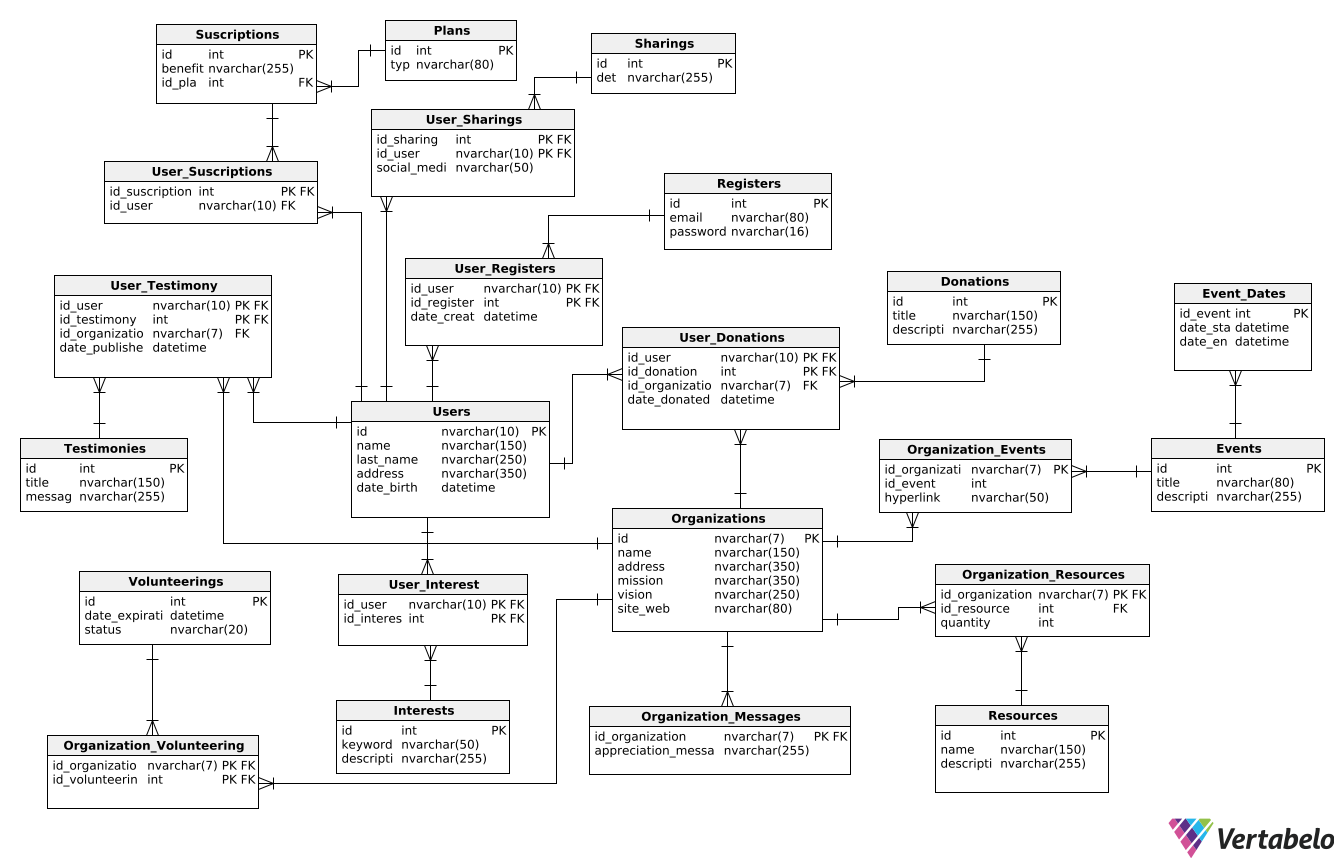
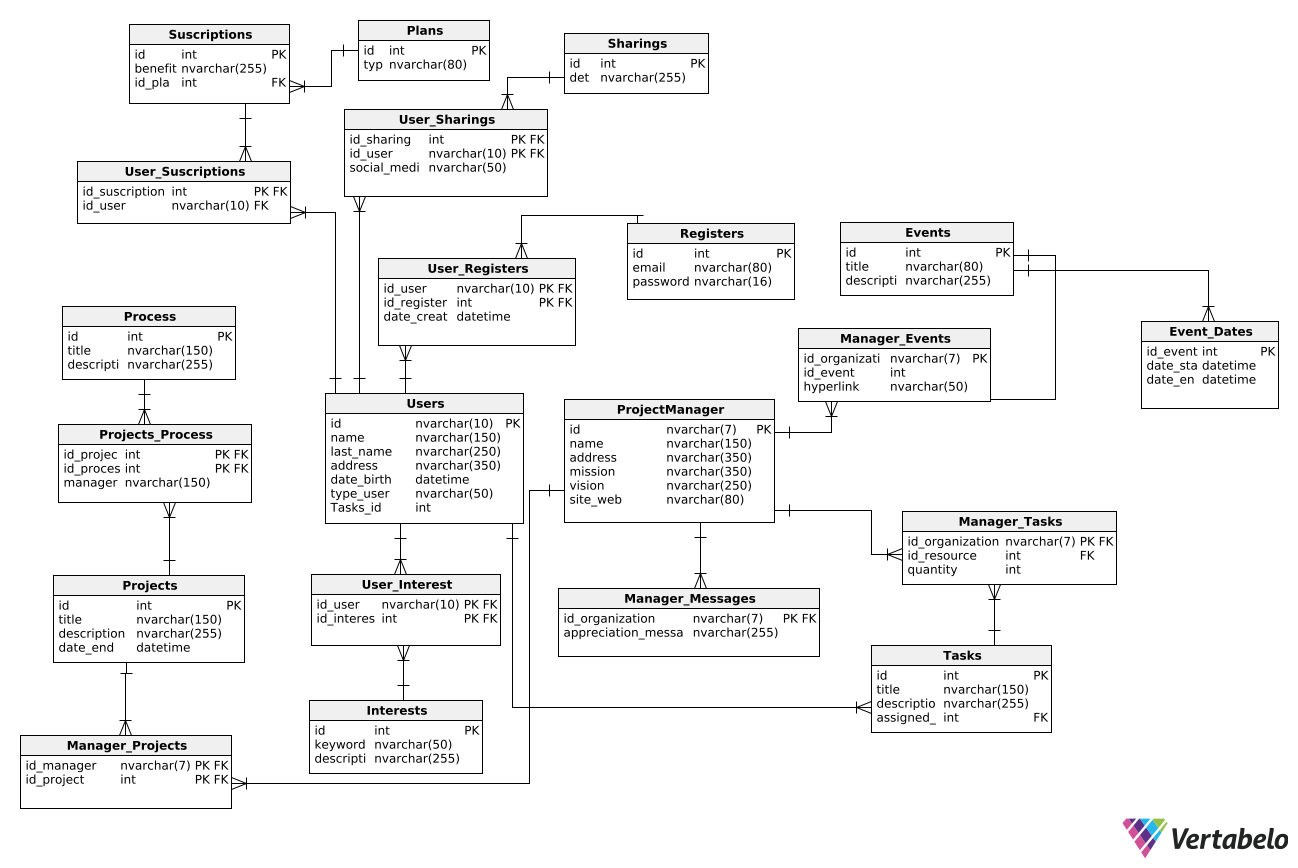
update: new class diagram

diff --git a/TB1/si730-WX54-Startup-report-TB1.md b/TB1/si730-WX54-Startup-report-TB1.md
@@ -502,8 +502,7 @@ un flow diagram de como el usuario utilizara la pagina **[PARA CADA USER GOAL]**
 
 ## 4.7. Software Object-Oriented Design.
 ### 4.7.1. Class Diagrams.
-Esta yaselasaben (diagrama de clases)
-Clases(name), objetos(nombre-objeto [como objeto]), metodos("Accion") y atributos(Correo, edad,nombre como valor, ID)
+![Class Diagram](/assets/diagrams/class_diagram.png)
 ### 4.7.2. Class Dictionary.
 Inherit (ave(superclase) -> (subclase)canario )
 Polymorphism (Ej. funcion de persona hablar() -> Peruano hablar() , Gringo hablar() todos tienen una funcion que contiene persona y van cambiando sus formas)
@@ -511,7 +510,7 @@ Abstraction (Ej. Solo muestra el usuario, pero esta su edad, correo y veces usad
 Encapsulation (cuando tienes tus variables y metodos en la misma clase las estas encapsulando, aun mas se encapsulan en Private y Public )
 ## 4.8. Database Design.
 ### 4.8.1. Database Diagram.
-Diagrama de base de datos (la relacion entre clases PK FK el Normalizar tmbn, isiyisi 🕸)
+
 # Capítulo V: Product Implementation, Validation & Deployment
 ## 5.1. Software Configuration Management.
 ### 5.1.1. Software Development Environment Configuration.
